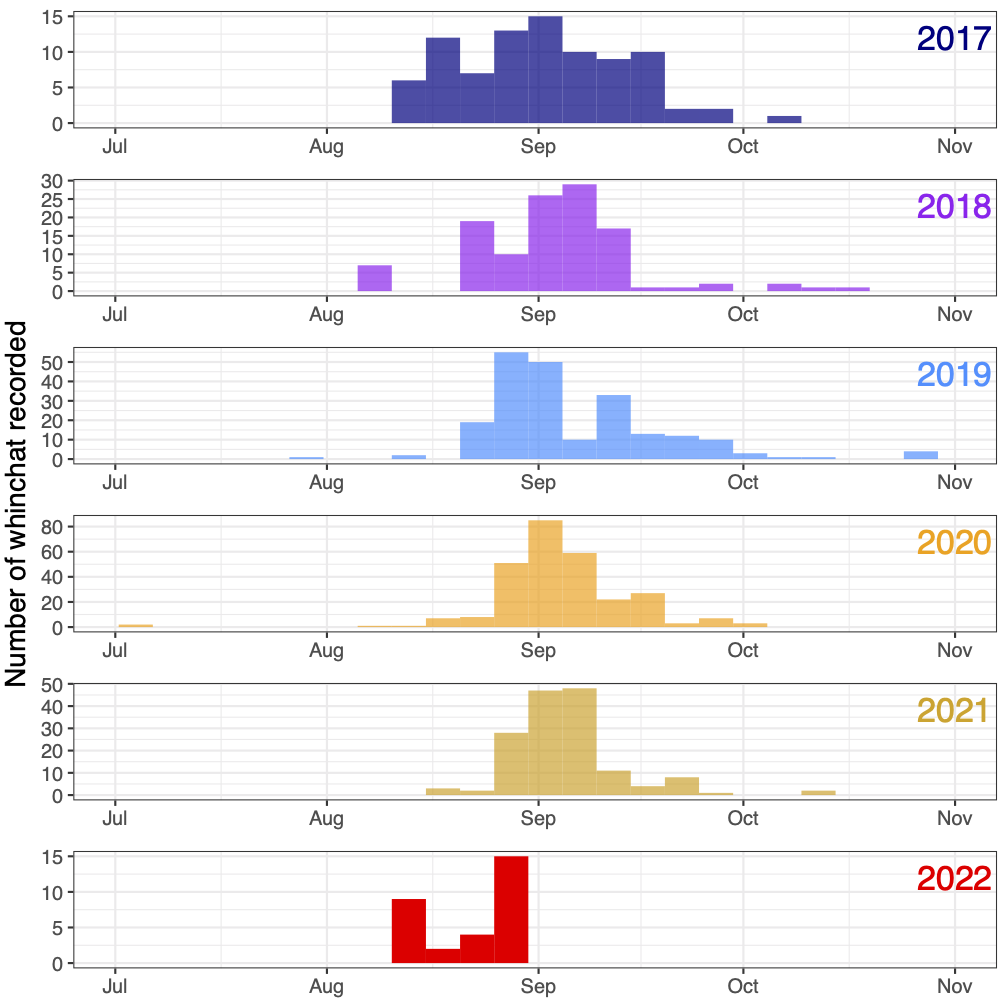
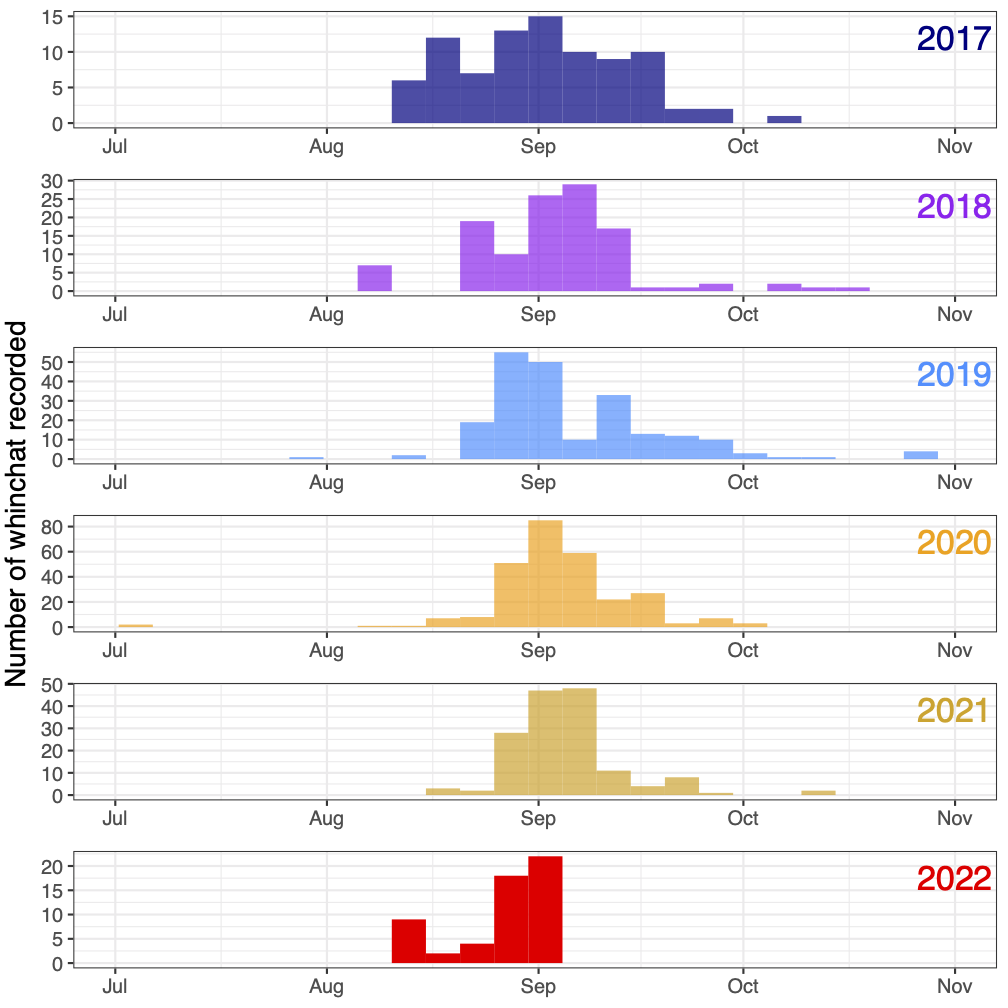
Updated live record plots

diff --git a/docs/Species_plots/spotted_flycatcher.md b/docs/Species_plots/spotted_flycatcher.md
@@ -2,10 +2,12 @@
 
 Uncommon summer visitor and passage migrant in Herts
 
-### All records from all years
+This plot shows all Herts autumn records since 1988:
 
 <img src="_figures/spotted_flycatcher.png" width = "500">
 
-### Live 2022 records compared with previous years
+July records are likely a mixture of breeding birds and some early migrants. We then see a peak of birds moving through in late August and early September
+
+This plots shows live 2022 records compared with previous years:
 
 <img src="_figures/spotted_flycatcher_year_records.png" width = "500">

diff --git a/docs/Species_plots/whinchat.md b/docs/Species_plots/whinchat.md
@@ -2,10 +2,12 @@
 
 Regular passage migrant that's more common in autumn than spring in Herts
 
-### All records from all years
+This plot shows all autumn records since 1988:
 
 <img src="_figures/whinchat.png" width = "500">
 
-### Live 2022 records compared with previous years
+We tend to see a peak of birds in late August and early September, although birds can continue to turn up through September
+
+This plots shows live 2022 records compared with previous years:
 
 <img src="_figures/whinchat_year_records.png" width = "500">
